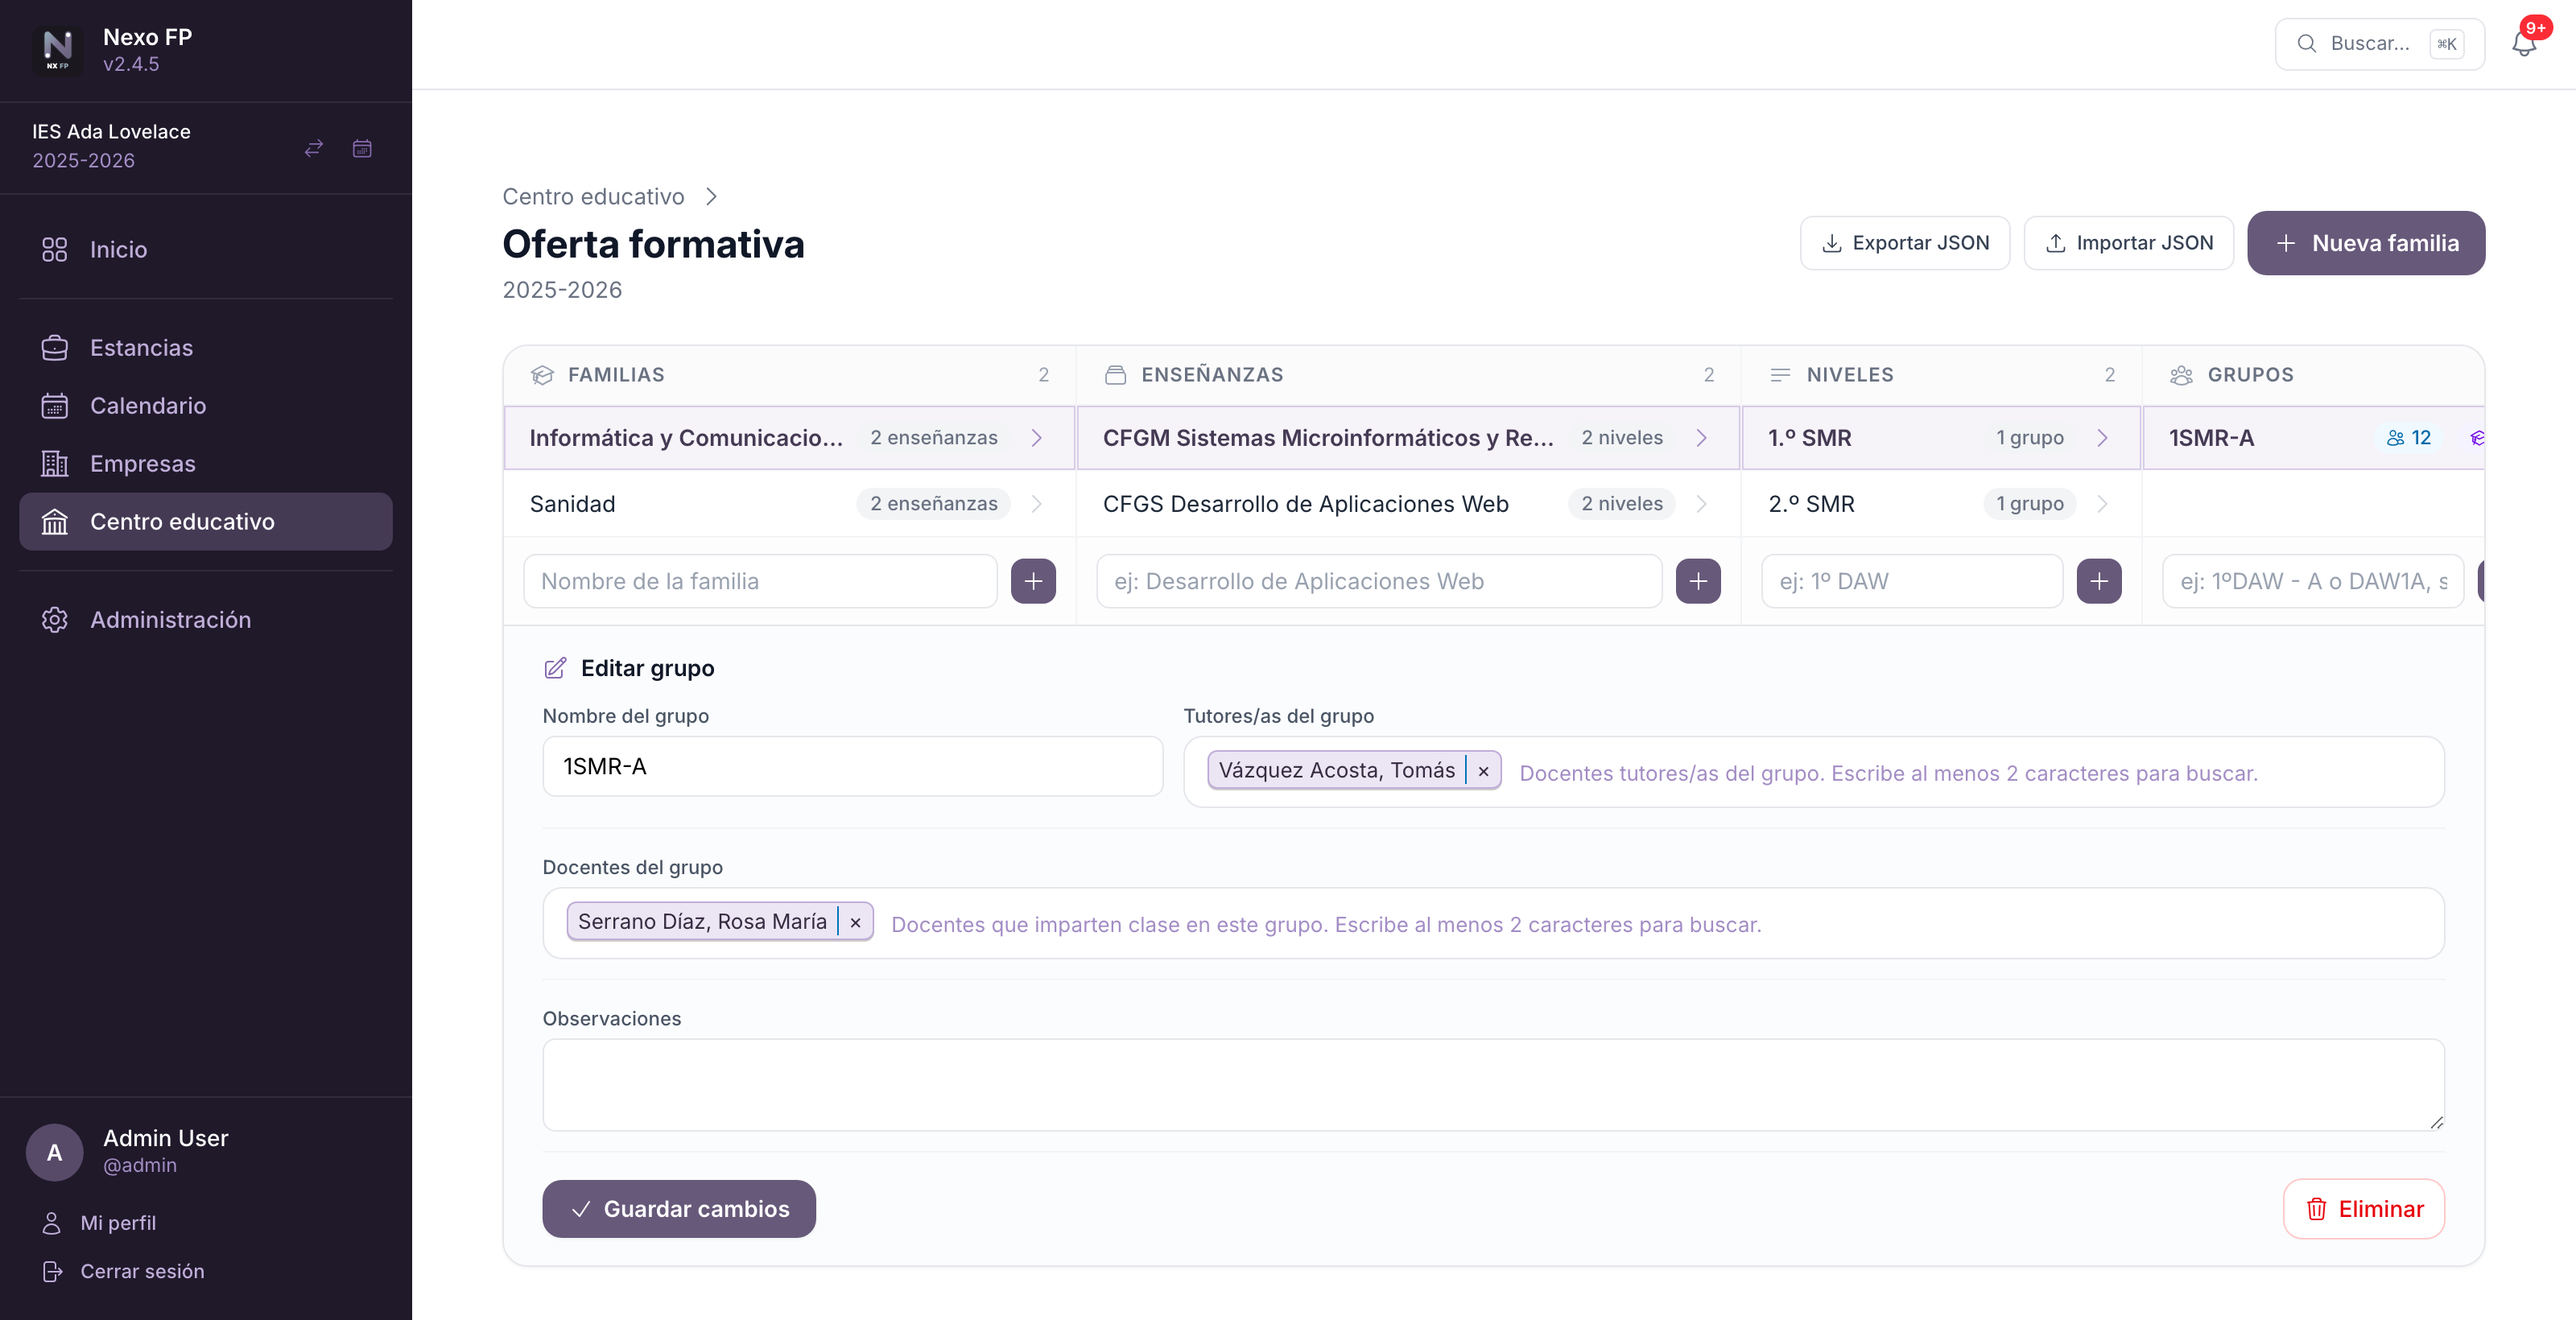
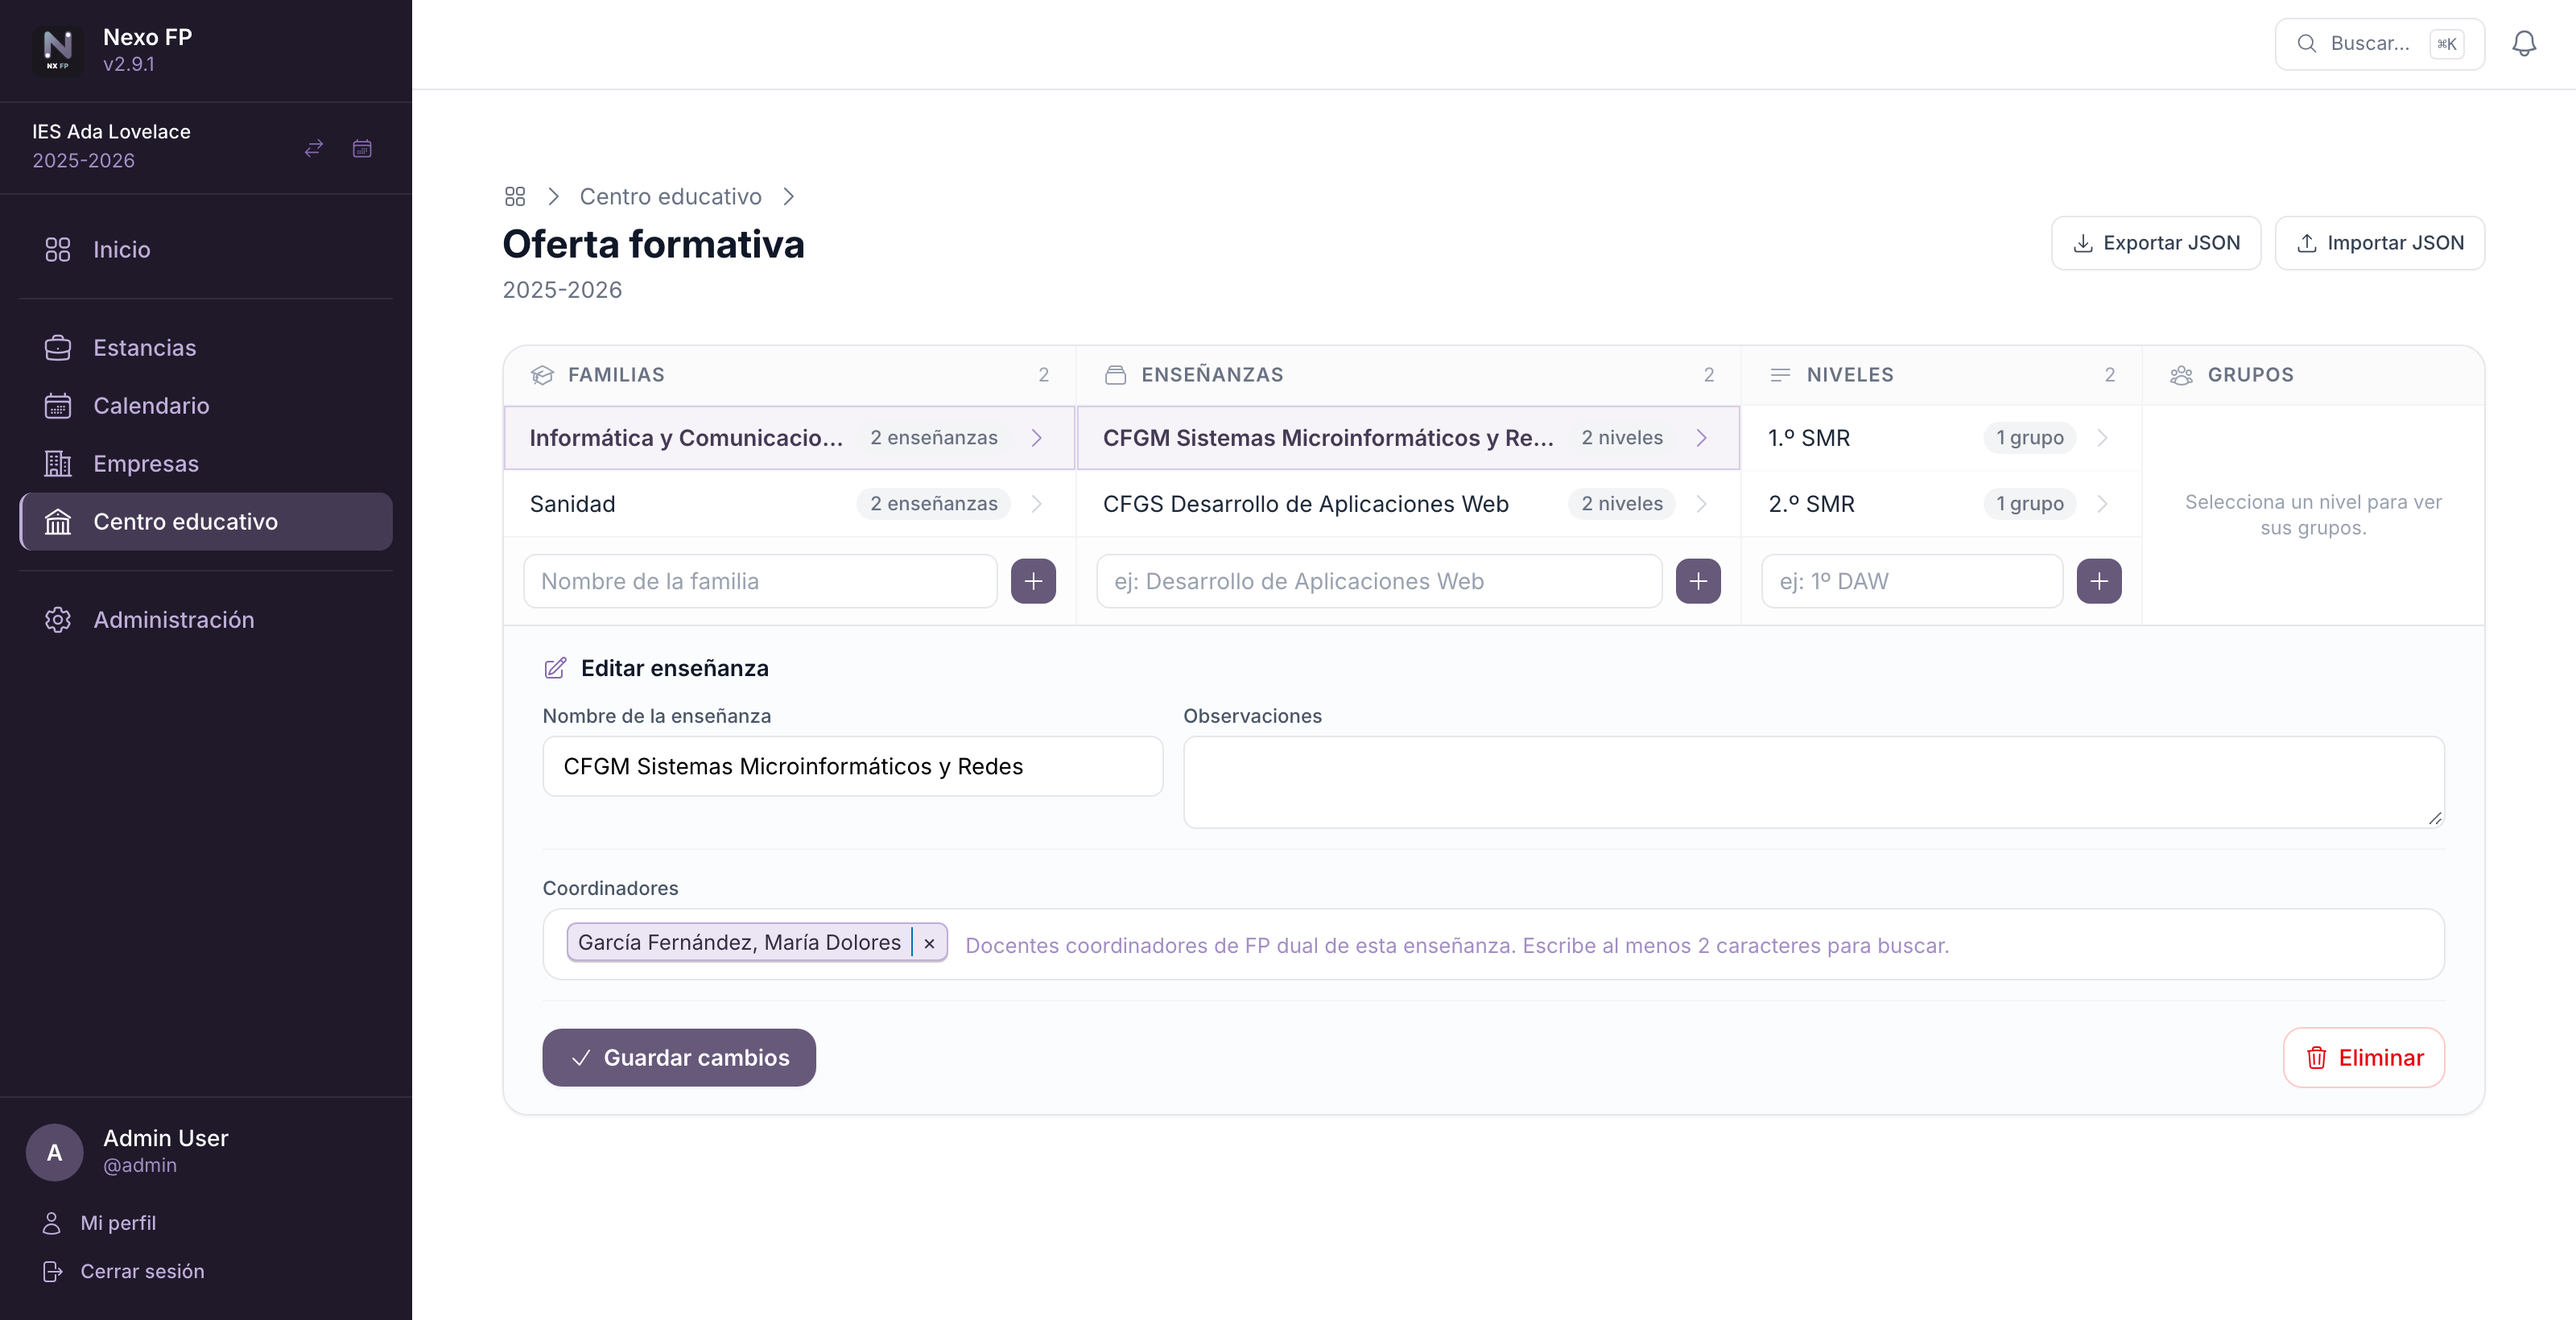
chore(docs): comprobar los contadores de la oferta formativa en check-migrations y recapturar la oferta formativa
Claude-Session: https://claude.ai/code/session_01Q8R8uUPa8Fsi2RwKV4XKcs

diff --git a/skills/documentation.md b/skills/documentation.md
@@ -56,10 +56,7 @@ How it works / how to extend it:
 - Manual screenshots are 1440×900 at scale 1; slide screenshots reuse the sizes of the original images.
 - The server runs with `APP_DEBUG=1` and 8 workers: with `APP_DEBUG=0` AssetMapper assets 404 and the page
   renders unstyled. `public/assets/` must not exist (the script refuses to run if it does).
-- `releases.png` (a GitHub page) is taken by hand. `oferta-formativa.png`, `04_admin_familias.png` and
-  `05_admin_ensenanza.png` can be regenerated (`oferta-formativa`, `slide-admin-familias`,
-  `slide-admin-ensenanza`) but the family-tree badges render as «0» on the migrated SQLite demo database
-  (a pre-existing id-format quirk), so they are kept from older captures until that is fixed.
+- `releases.png` (a GitHub page) is taken by hand; every other image is generated.
 - After changing the UI, regenerate and **look at the images** before committing: layout changes can break a
   selector in `capture.mjs`; failures are listed at the end and make the script exit non-zero.
 

diff --git a/skills/testing.md b/skills/testing.md
@@ -57,5 +57,8 @@ scripts/check-migrations.sh            # or: make check-migrations   (pg | mysql
 
 For PostgreSQL 16, MySQL 8 and MariaDB 11 it migrates up to the previous version with real rows, migrates up,
 checks the data moved, migrates down, up again, and prints the schema diff against the ORM mapping. The
-seed data and assertions in that script are specific to the stay/programme migration of 2.9.0: when a future
+script also loads the demo fixtures and checks the offering counters (`countByFamily`, `countByProgramme`,
+`countByLevel`): they once used `IN (:entities)`, which matched nothing on MySQL and migrated SQLite because
+ids are stored as binary there — the in-memory tests did not catch it, so **never pass arrays of entities to
+`IN (:param)`; compare one by one with an explicit `'uuid'` type**. The seed data and assertions in that script are specific to the stay/programme migration of 2.9.0: when a future
 migration needs checking, adapt the seed and the checks.
